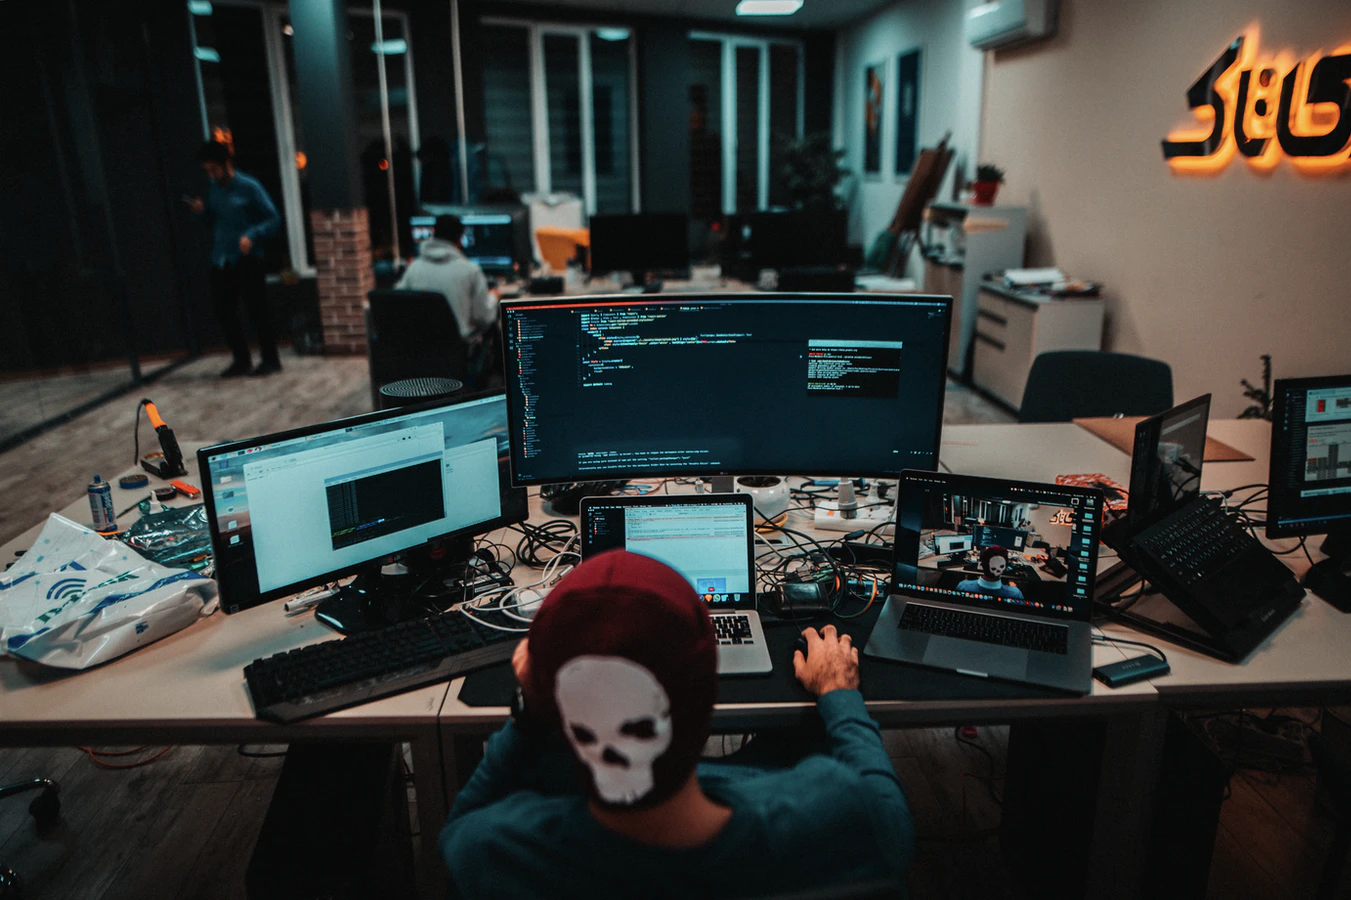
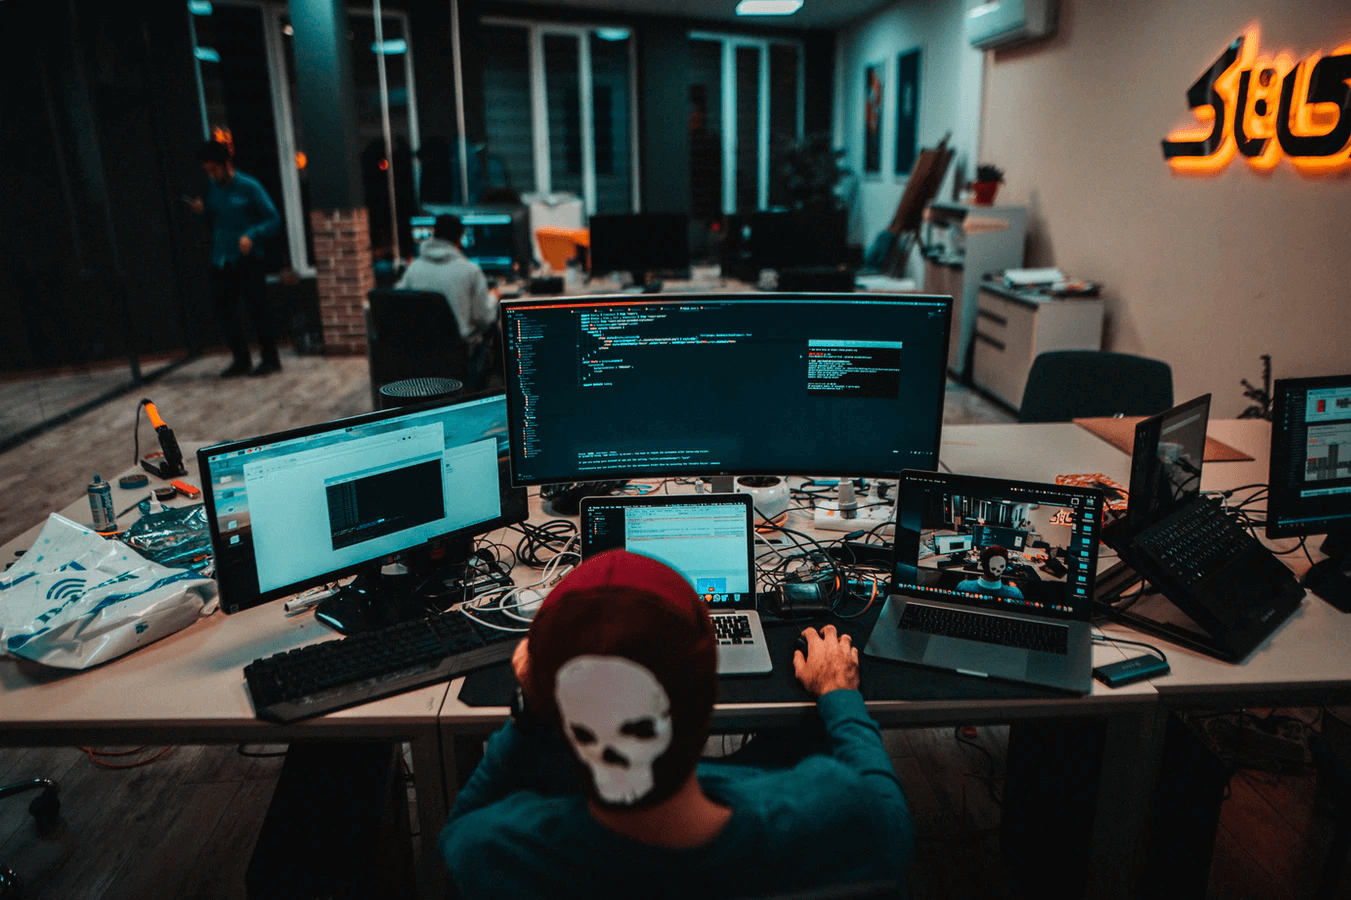
resized some images, added custom scrollbar on firefox and chrome

diff --git a/src/index.css b/src/index.css
@@ -15,6 +15,27 @@
   --animate-delay: 0.1s !important;
 }
 
+
+::-webkit-scrollbar {
+  width: 8px; 
+}
+
+::-webkit-scrollbar-track {
+  background: rgb(130, 123, 125);
+}
+
+::-webkit-scrollbar-thumb {
+  background-color: rgba(255, 255, 255, 0.6);
+  border: 7px solid transparent;
+  background-clip: content-box;
+}
+
+html {
+  scrollbar-width: thin;
+  scroll-behavior: smooth;
+  scrollbar-color: rgba(255, 255, 255, 0.6)rgb(130, 123, 125);
+}
+
 body {
   font-family: -apple-system, BlinkMacSystemFont, 'Segoe UI', 'Roboto', 'Oxygen',
     'Ubuntu', 'Cantarell', 'Fira Sans', 'Droid Sans', 'Helvetica Neue',
